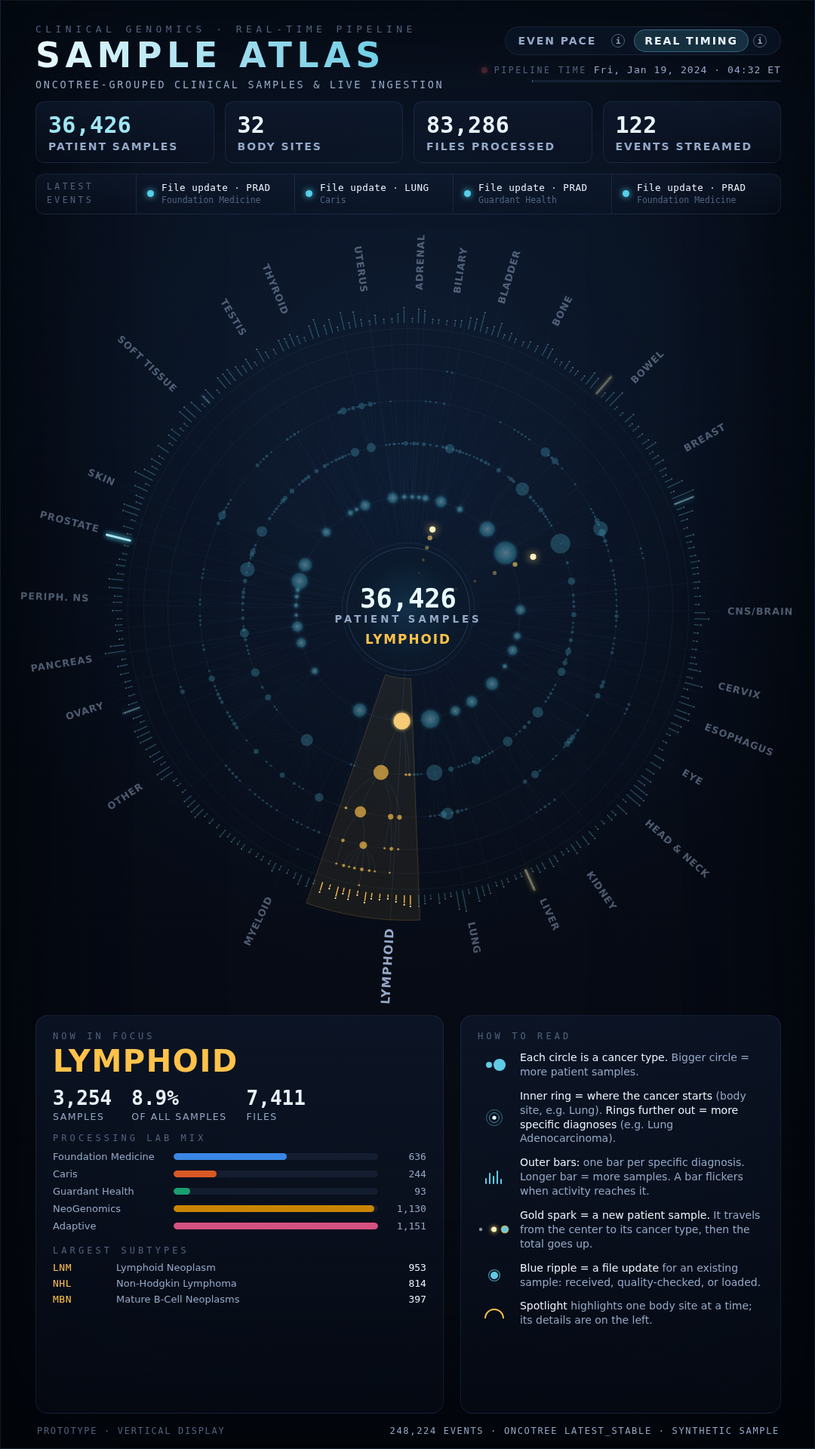
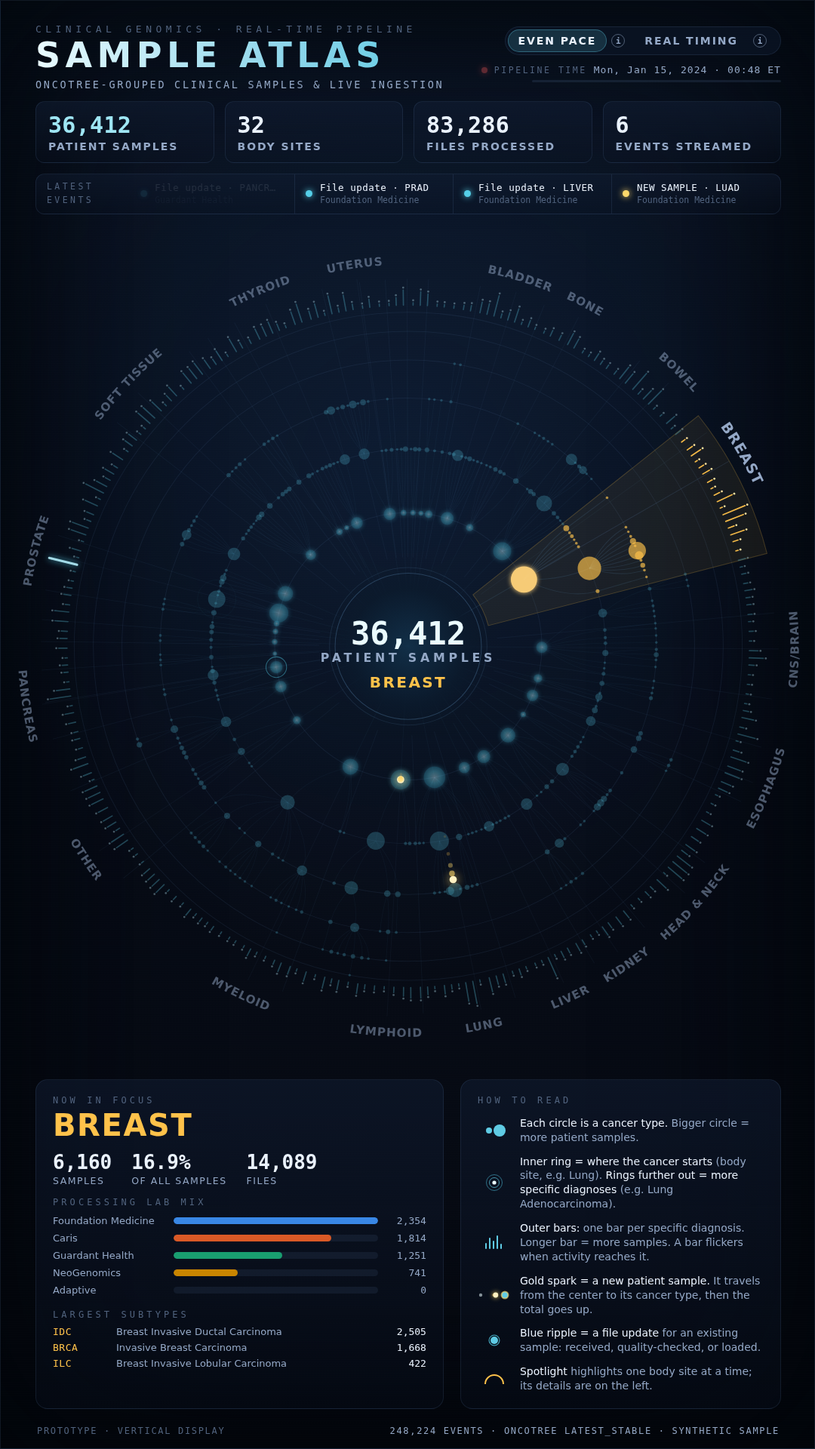
edits

diff --git a/docs/index.html b/docs/index.html
@@ -39,7 +39,7 @@ body{
     linear-gradient(180deg,#0a1322 0%, #070c17 55%, #05080f 100%);
   border:1px solid rgba(120,165,220,.10);
   box-shadow:0 0 120px rgba(0,0,0,.6), inset 0 0 160px rgba(0,0,0,.45);
-  display:grid; grid-template-rows:286px 1054px minmax(0,1fr) 46px; overflow:hidden;
+  display:grid; grid-template-rows:286px minmax(0,1fr) auto 46px; overflow:hidden;
 }
 /* subtle scanline + vignette */
 #stage::after{content:"";position:absolute;inset:0;pointer-events:none;
@@ -71,8 +71,8 @@ header{padding:30px 46px 0;display:flex;flex-direction:column;gap:14px;z-index:3
 .kpi.lead .v{color:#9fe6f4}
 
 /* ── atlas ── */
-#atlas{position:relative;z-index:2}
-#atlas svg{display:block;width:1080px;height:1054px}
+#atlas{position:relative;z-index:2;min-height:0}
+#atlas svg{display:block;width:1080px;height:100%}
 .ringline{fill:none;stroke:var(--ring);stroke-width:1}
 .spoke{stroke:rgba(120,165,220,.06);stroke-width:1}
 .link{fill:none;stroke:var(--edge);stroke-width:1;transition:stroke .6s,opacity .6s,stroke-width .6s}
@@ -86,14 +86,14 @@ header{padding:30px 46px 0;display:flex;flex-direction:column;gap:14px;z-index:3
 .hub-cat{font-family:var(--f-disp);font-weight:700;font-size:19px;letter-spacing:.12em;fill:var(--accent);text-anchor:middle;text-transform:uppercase}
 
 /* ── bottom ── */
-#bottom{display:grid;grid-template-columns:1.12fr .88fr;gap:22px;padding:4px 46px 0;z-index:3;min-height:0}
+#bottom{display:grid;grid-template-columns:1.12fr .88fr;gap:22px;padding:4px 46px 6px;z-index:3;min-height:0}
 #bottom>.card{min-height:0}
 .card{border:1px solid var(--hair-c);border-radius:16px;padding:20px 22px;
   background:linear-gradient(180deg,rgba(16,27,48,.6),rgba(9,16,30,.35));position:relative;overflow:hidden}
 .card h3{margin:0 0 2px;font-family:var(--f-mono);font-size:12px;letter-spacing:.34em;
   color:var(--ink-3);text-transform:uppercase;font-weight:500}
 .spot-name{font-family:var(--f-disp);font-weight:700;font-size:40px;letter-spacing:.04em;
-  color:var(--accent);text-transform:uppercase;line-height:1.02;margin:6px 0 2px;min-height:44px}
+  color:var(--accent);text-transform:uppercase;line-height:1.02;margin:6px 0 2px;min-height:44px;white-space:nowrap;overflow:hidden}
 .spot-stats{display:flex;gap:26px;margin:10px 0 14px}
 .spot-stats .s .v{font-family:var(--f-mono);font-weight:600;font-size:26px;color:var(--ink);font-variant-numeric:tabular-nums}
 .spot-stats .s .l{font-family:var(--f-disp);font-size:12.5px;letter-spacing:.12em;color:var(--ink-2);text-transform:uppercase;margin-top:2px}
@@ -104,12 +104,14 @@ header{padding:30px 46px 0;display:flex;flex-direction:column;gap:14px;z-index:3
 .vbar .fill{height:100%;border-radius:5px;transition:width .6s cubic-bezier(.3,.8,.3,1)}
 .vbar .pc{font-family:var(--f-mono);font-size:13px;color:var(--ink-2);text-align:right;font-variant-numeric:tabular-nums}
 
-.subs{display:flex;flex-direction:column;gap:6px}
+.subs{display:flex;flex-direction:column;gap:6px;min-height:64px}
 .sb{display:grid;grid-template-columns:74px 1fr 60px;gap:10px;align-items:baseline;font-size:13px}
 .sb .c{font-family:var(--f-mono);color:var(--accent);letter-spacing:.04em}
 .sb .n{font-family:var(--f-body);color:var(--ink-2);white-space:nowrap;overflow:hidden;text-overflow:ellipsis}
 .sb .k{font-family:var(--f-mono);color:var(--ink);text-align:right;font-variant-numeric:tabular-nums}
 .legend{display:flex;flex-direction:column;gap:13px}
+.readcard{display:flex;flex-direction:column}
+.readcard .legend{flex:1 1 auto;justify-content:space-between}
 .lg{display:grid;grid-template-columns:44px 1fr;align-items:center;gap:12px}
 .lg .gl{display:flex;align-items:center;justify-content:center}
 .lg .tx{font-family:var(--f-body);font-size:14px;color:var(--ink-2);line-height:1.35}
@@ -214,13 +216,13 @@ footer .r{color:var(--ink-2)}
         <div class="lg"><span class="gl"><svg width="34" height="22" aria-hidden="true"><circle cx="10" cy="11" r="4" fill="#5fcbe4"/><circle cx="24" cy="11" r="8" fill="#5fcbe4"/></svg></span><span class="tx"><b>Each circle is a cancer type.</b> Bigger circle = more patient samples.</span></div>
         <div class="lg"><span class="gl"><svg width="34" height="24" aria-hidden="true"><circle cx="17" cy="12" r="2.6" fill="#eafbff"/><circle cx="17" cy="12" r="6.5" fill="none" stroke="#5fcbe4" stroke-opacity=".7"/><circle cx="17" cy="12" r="10.5" fill="none" stroke="#2f6f85"/></svg></span><span class="tx"><b>Inner ring = where the cancer starts</b> (body site, e.g. Lung). <b>Rings further out = more specific diagnoses</b> (e.g. Lung Adenocarcinoma).</span></div>
         <div class="lg"><span class="gl"><svg width="34" height="22" aria-hidden="true"><g stroke="#5fcbe4" stroke-width="2" stroke-linecap="round"><line x1="6" y1="19" x2="6" y2="13"/><line x1="11" y1="19" x2="11" y2="6"/><line x1="16" y1="19" x2="16" y2="10"/><line x1="21" y1="19" x2="21" y2="3"/><line x1="26" y1="19" x2="26" y2="14"/></g></svg></span><span class="tx"><b>Outer bars:</b> one bar per specific diagnosis. Longer bar = more samples. A bar flickers when activity reaches it.</span></div>
-        <div class="lg"><span class="gl"><svg width="44" height="30" viewBox="0 0 44 30" aria-hidden="true">
+        <div class="lg"><span class="gl"><svg width="44" height="30" viewBox="0 0 44 30" overflow="visible" aria-hidden="true">
           <circle cx="4" cy="15" r="2.2" fill="#eafbff" opacity=".55"/>
-          <circle cx="36" cy="15" r="4.5" fill="#5fcbe4"/>
-          <circle cy="15" r="1.4" fill="#ffc24a" opacity="0"><animate attributeName="cx" values="4;36;36" keyTimes="0;.58;1" dur="2.6s" begin=".18s" repeatCount="indefinite"/><animate attributeName="opacity" values=".2;.2;0;0" keyTimes="0;.56;.6;1" dur="2.6s" begin=".18s" repeatCount="indefinite"/></circle>
-          <circle cy="15" r="2.2" fill="#ffd96b" opacity="0"><animate attributeName="cx" values="4;36;36" keyTimes="0;.58;1" dur="2.6s" begin=".09s" repeatCount="indefinite"/><animate attributeName="opacity" values=".45;.45;0;0" keyTimes="0;.56;.6;1" dur="2.6s" begin=".09s" repeatCount="indefinite"/></circle>
-          <circle cy="15" r="3.4" fill="#fff1c2" style="filter:drop-shadow(0 0 3px #ffd96b)"><animate attributeName="cx" values="4;36;36" keyTimes="0;.58;1" dur="2.6s" repeatCount="indefinite"/><animate attributeName="opacity" values="1;1;0;0" keyTimes="0;.57;.6;1" dur="2.6s" repeatCount="indefinite"/></circle>
-          <circle cx="36" cy="15" r="4.5" fill="none" stroke="#ffd96b" stroke-width="2"><animate attributeName="r" values="4.5;4.5;12;12" keyTimes="0;.58;.92;1" dur="2.6s" repeatCount="indefinite"/><animate attributeName="opacity" values="0;1;0;0" keyTimes="0;.58;.92;1" dur="2.6s" repeatCount="indefinite"/></circle>
+          <circle cx="29" cy="15" r="4.5" fill="#5fcbe4"/>
+          <circle cy="15" r="1.4" fill="#ffc24a" opacity="0"><animate attributeName="cx" values="4;29;29" keyTimes="0;.58;1" dur="2.6s" begin=".18s" repeatCount="indefinite"/><animate attributeName="opacity" values=".2;.2;0;0" keyTimes="0;.56;.6;1" dur="2.6s" begin=".18s" repeatCount="indefinite"/></circle>
+          <circle cy="15" r="2.2" fill="#ffd96b" opacity="0"><animate attributeName="cx" values="4;29;29" keyTimes="0;.58;1" dur="2.6s" begin=".09s" repeatCount="indefinite"/><animate attributeName="opacity" values=".45;.45;0;0" keyTimes="0;.56;.6;1" dur="2.6s" begin=".09s" repeatCount="indefinite"/></circle>
+          <circle cy="15" r="3.4" fill="#fff1c2" style="filter:drop-shadow(0 0 3px #ffd96b)"><animate attributeName="cx" values="4;29;29" keyTimes="0;.58;1" dur="2.6s" repeatCount="indefinite"/><animate attributeName="opacity" values="1;1;0;0" keyTimes="0;.57;.6;1" dur="2.6s" repeatCount="indefinite"/></circle>
+          <circle cx="29" cy="15" r="4.5" fill="none" stroke="#ffd96b" stroke-width="2"><animate attributeName="r" values="4.5;4.5;11.5;11.5" keyTimes="0;.58;.92;1" dur="2.6s" repeatCount="indefinite"/><animate attributeName="opacity" values="0;1;0;0" keyTimes="0;.58;.92;1" dur="2.6s" repeatCount="indefinite"/></circle>
         </svg></span><span class="tx"><b>Gold spark = a new patient sample.</b> It travels from the center to its cancer type, then the total goes up.</span></div>
         <div class="lg"><span class="gl"><svg width="44" height="30" viewBox="0 0 44 30" aria-hidden="true">
           <circle cx="22" cy="15" r="5" fill="#5fcbe4"/>
@@ -259,7 +261,7 @@ const BUNDLE = {"meta":{"totalSamples":36412,"totalEvents":248224,"totalFiles":8
     `${fmt(B.meta.totalEvents)} events · OncoTree latest_stable · synthetic sample`;
 
   // ── build hierarchy + radial layout
-  const W=1080,H=1054,cx=540,cy=520;
+  const W=1080; let H=document.getElementById("atlas").clientHeight||1100;
   const root = d3.hierarchy(B.tree);
   const RING=[0,168,248,312,360,396,420];
   const OUT=420;
@@ -294,7 +296,7 @@ const BUNDLE = {"meta":{"totalSamples":36412,"totalEvents":248224,"totalFiles":8
   glow.append("feGaussianBlur").attr("stdDeviation","3.2").attr("result","b");
   const fm=glow.append("feMerge"); fm.append("feMergeNode").attr("in","b"); fm.append("feMergeNode").attr("in","SourceGraphic");
 
-  const g=svg.append("g").attr("transform",`translate(${cx},${cy}) scale(0.885)`);
+  const g=svg.append("g");
   // concentric rings
   g.append("g").selectAll("circle").data(RING.slice(1)).enter().append("circle")
     .attr("class","ringline").attr("r",d=>d);
@@ -343,25 +345,40 @@ const BUNDLE = {"meta":{"totalSamples":36412,"totalEvents":248224,"totalFiles":8
     .attr("cx",d=>Math.sin(d.ang)*(OUT+12+barLen(d.data.n_direct||1))).attr("cy",d=>-Math.cos(d.ang)*(OUT+12+barLen(d.data.n_direct||1)))
     .attr("r",1.3).attr("fill","#bfeefb").attr("opacity",.45);
 
-  // category labels around perimeter
-  const SHORT={"Peripheral Nervous System":"Periph. NS","Bladder/Urinary Tract":"Bladder",
+  // category labels: curved along the outer edge (top half reads clockwise, bottom half flipped upright)
+  const SHORT={"Peripheral Nervous System":"Periph. Nerve","Bladder/Urinary Tract":"Bladder",
     "Ovary/Fallopian Tube":"Ovary","Esophagus/Stomach":"Esophagus","Ampulla of Vater":"Ampulla","Biliary Tract":"Biliary","Head and Neck":"Head & Neck","Adrenal Gland":"Adrenal"};
-  const shown=new Set(); const byBig=root.children.slice().sort((a,b)=>b.data.n_subtree-a.data.n_subtree);
   const angDist=(a,b)=>{const d=Math.abs(a-b)%(2*Math.PI);return Math.min(d,2*Math.PI-d)};
-  byBig.forEach(c=>{ if([...shown].every(o=>angDist(o.ang,c.ang)>=0.118)) shown.add(c); });
-  const labelG=g.append("g");
+  const LR=480, labelG=g.append("g"), lblInfo=[];
   root.children.forEach(c=>{
-    const lr=478, lx=Math.sin(c.ang)*lr, ly=-Math.cos(c.ang)*lr;
-    let deg=Math.atan2(ly,lx)*180/Math.PI, flip=(deg>90||deg<-90), rot=flip?deg+180:deg;
-    // leader
-    labelG.append("line").attr("class","leader").attr("data-root",c.data.code).attr("data-shown",shown.has(c)?1:0).attr("opacity",shown.has(c)?1:0)
-      .attr("x1",Math.sin(c.ang)*(c.rr+nodeR(c)+3)).attr("y1",-Math.cos(c.ang)*(c.rr+nodeR(c)+3))
-      .attr("x2",Math.sin(c.ang)*(lr-10)).attr("y2",-Math.cos(c.ang)*(lr-10));
-    labelG.append("text").attr("class","catlabel").attr("data-root",c.data.code)
-      .attr("transform",`translate(${lx},${ly}) rotate(${rot})`)
-      .attr("text-anchor",flip?"end":"start").attr("dy","0.32em").attr("data-shown",shown.has(c)?1:0).attr("opacity",shown.has(c)?.75:0)
+    const a=c.ang, top=Math.cos(a)>=0, r=top?LR:LR+11, d=0.62;
+    const P=x=>[Math.sin(x)*r,-Math.cos(x)*r];
+    const [x0,y0]=P(top?a-d:a+d), [x1,y1]=P(top?a+d:a-d);
+    defs.append("path").attr("id","lp-"+c.data.code).attr("d",`M${x0},${y0} A${r},${r} 0 0 ${top?1:0} ${x1},${y1}`);
+    const ld=labelG.append("line").attr("class","leader").attr("data-root",c.data.code).attr("opacity",0)
+      .attr("x1",Math.sin(a)*(c.rr+nodeR(c)+3)).attr("y1",-Math.cos(a)*(c.rr+nodeR(c)+3))
+      .attr("x2",Math.sin(a)*(LR-14)).attr("y2",-Math.cos(a)*(LR-14));
+    const tx=labelG.append("text").attr("class","catlabel").attr("data-root",c.data.code).attr("opacity",0);
+    tx.append("textPath").attr("href","#lp-"+c.data.code).attr("startOffset","50%").attr("text-anchor","middle")
       .text(SHORT[c.data.name]||c.data.name);
+    lblInfo.push({c,el:tx.node(),ld:ld.node()});
   });
+  // keep a label only if its arc doesn't collide with a bigger site's label; the spotlit site always wins
+  function cullLabels(spot){
+    const prev=lblInfo.map(o=>o.el.style.fontSize);
+    lblInfo.forEach(o=>o.el.style.fontSize="14.5px");
+    const items=lblInfo.map(o=>{let len=80;try{len=o.el.getComputedTextLength()||80}catch(e){}
+      const isSpot=o.c.data.code===spot; return {o,isSpot,L:isSpot?len*18/14.5:len};});
+    lblInfo.forEach((o,i)=>o.el.style.fontSize=prev[i]);
+    items.sort((a,b)=>(b.isSpot-a.isSpot)||(b.o.c.data.n_subtree-a.o.c.data.n_subtree));
+    const kept=[];
+    items.forEach(it=>{ if(kept.every(k=>angDist(k.o.c.ang,it.o.c.ang)*LR>=(k.L+it.L)/2+14)) kept.push(it); });
+    const ks=new Set(kept.map(k=>k.o.c.data.code));
+    lblInfo.forEach(o=>{const v=ks.has(o.c.data.code)?1:0; o.el.setAttribute("data-shown",v); o.ld.setAttribute("data-shown",v);});
+  }
+  cullLabels(null);
+  labelG.selectAll(".catlabel").attr("opacity",function(){return this.getAttribute("data-shown")==="1"?.75:0});
+  labelG.selectAll(".leader").attr("opacity",function(){return this.getAttribute("data-shown")==="1"?.6:0});
 
   // hub
   g.append("circle").attr("r",104).attr("fill","url(#hub)");
@@ -372,6 +389,23 @@ const BUNDLE = {"meta":{"totalSamples":36412,"totalEvents":248224,"totalFiles":8
   const hubCat=g.append("text").attr("class","hub-cat").attr("dy","52").text("");
 
   const pulseL=g.append("g"); // pulses on top
+
+  // fit the whole atlas (labels at their largest spotlight size) into the space left by the panels
+  function fitAtlas(){
+    H=document.getElementById("atlas").clientHeight||H;
+    svg.attr("viewBox",`0 0 ${W} ${H}`);
+    const lbls=labelG.selectAll(".catlabel").nodes(), prev=lbls.map(n=>n.style.fontSize);
+    lbls.forEach(n=>n.style.fontSize="18px");
+    const bb=g.node().getBBox();
+    lbls.forEach((n,i)=>n.style.fontSize=prev[i]);
+    const halfW=Math.max(-bb.x,bb.x+bb.width), halfH=Math.max(-bb.y,bb.y+bb.height), m=16;
+    const s=Math.min((W/2-m)/halfW,(H/2-m)/halfH);
+    g.attr("transform",`translate(${W/2},${H/2}) scale(${s.toFixed(4)})`);
+  }
+  fitAtlas();
+  if(document.fonts&&document.fonts.ready) document.fonts.ready.then(()=>{ cullLabels(curSpot); fitAtlas();
+    labelG.selectAll(".catlabel").attr("opacity",function(){return this.getAttribute("data-root")===curSpot?1:(this.getAttribute("data-shown")==="1"?.5:0)});
+    labelG.selectAll(".leader").attr("opacity",function(){return this.getAttribute("data-root")===curSpot?1:(this.getAttribute("data-shown")==="1"?.35:0)}); });
 
   // ── live counters
   let total=B.meta.totalSamples, evStreamed=0;
@@ -485,10 +519,11 @@ const BUNDLE = {"meta":{"totalSamples":36412,"totalEvents":248224,"totalFiles":8
   // ── spotlight
   const catByName=new Map(B.categories.map(c=>[c.root,c]));
   const level1=root.children.slice().sort((a,b)=>b.data.n_subtree-a.data.n_subtree);
-  let si=0;
+  let si=0, curSpot=null;
   const vbars=document.getElementById("vbars");
   function spotlight(){
     const c=level1[si++ % level1.length], code=c.data.code, set=subtreeCodes.get(code);
+    curSpot=code; cullLabels(code);
     // dim/highlight
     nodeSel.attr("opacity",d=>set.has(d.ancestors().find(a=>a.depth===1).data.code)?1:.42);
     const isOn=function(){return this.getAttribute("data-root")===code};
@@ -509,7 +544,8 @@ const BUNDLE = {"meta":{"totalSamples":36412,"totalEvents":248224,"totalFiles":8
     hubCat.text(c.data.name).attr("opacity",0).transition().duration(400).attr("opacity",1);
     // panel
     const cd=catByName.get(c.data.name);
-    document.getElementById("spot-name").textContent=c.data.name;
+    const sn=document.getElementById("spot-name"); sn.textContent=c.data.name; let fs=40; sn.style.fontSize=fs+"px";
+    while(sn.scrollWidth>sn.clientWidth && fs>24){ fs-=2; sn.style.fontSize=fs+"px"; }
     document.getElementById("spot-samples").textContent=fmt(cd.n_samples);
     document.getElementById("spot-share").textContent=(100*cd.n_samples/B.meta.totalSamples).toFixed(1)+"%";
     document.getElementById("spot-files").textContent=fmt(cd.n_files);

diff --git a/docs/src/index_template.html b/docs/src/index_template.html
@@ -39,7 +39,7 @@ body{
     linear-gradient(180deg,#0a1322 0%, #070c17 55%, #05080f 100%);
   border:1px solid rgba(120,165,220,.10);
   box-shadow:0 0 120px rgba(0,0,0,.6), inset 0 0 160px rgba(0,0,0,.45);
-  display:grid; grid-template-rows:286px 1054px minmax(0,1fr) 46px; overflow:hidden;
+  display:grid; grid-template-rows:286px minmax(0,1fr) auto 46px; overflow:hidden;
 }
 /* subtle scanline + vignette */
 #stage::after{content:"";position:absolute;inset:0;pointer-events:none;
@@ -71,8 +71,8 @@ header{padding:30px 46px 0;display:flex;flex-direction:column;gap:14px;z-index:3
 .kpi.lead .v{color:#9fe6f4}
 
 /* ── atlas ── */
-#atlas{position:relative;z-index:2}
-#atlas svg{display:block;width:1080px;height:1054px}
+#atlas{position:relative;z-index:2;min-height:0}
+#atlas svg{display:block;width:1080px;height:100%}
 .ringline{fill:none;stroke:var(--ring);stroke-width:1}
 .spoke{stroke:rgba(120,165,220,.06);stroke-width:1}
 .link{fill:none;stroke:var(--edge);stroke-width:1;transition:stroke .6s,opacity .6s,stroke-width .6s}
@@ -86,14 +86,14 @@ header{padding:30px 46px 0;display:flex;flex-direction:column;gap:14px;z-index:3
 .hub-cat{font-family:var(--f-disp);font-weight:700;font-size:19px;letter-spacing:.12em;fill:var(--accent);text-anchor:middle;text-transform:uppercase}
 
 /* ── bottom ── */
-#bottom{display:grid;grid-template-columns:1.12fr .88fr;gap:22px;padding:4px 46px 0;z-index:3;min-height:0}
+#bottom{display:grid;grid-template-columns:1.12fr .88fr;gap:22px;padding:4px 46px 6px;z-index:3;min-height:0}
 #bottom>.card{min-height:0}
 .card{border:1px solid var(--hair-c);border-radius:16px;padding:20px 22px;
   background:linear-gradient(180deg,rgba(16,27,48,.6),rgba(9,16,30,.35));position:relative;overflow:hidden}
 .card h3{margin:0 0 2px;font-family:var(--f-mono);font-size:12px;letter-spacing:.34em;
   color:var(--ink-3);text-transform:uppercase;font-weight:500}
 .spot-name{font-family:var(--f-disp);font-weight:700;font-size:40px;letter-spacing:.04em;
-  color:var(--accent);text-transform:uppercase;line-height:1.02;margin:6px 0 2px;min-height:44px}
+  color:var(--accent);text-transform:uppercase;line-height:1.02;margin:6px 0 2px;min-height:44px;white-space:nowrap;overflow:hidden}
 .spot-stats{display:flex;gap:26px;margin:10px 0 14px}
 .spot-stats .s .v{font-family:var(--f-mono);font-weight:600;font-size:26px;color:var(--ink);font-variant-numeric:tabular-nums}
 .spot-stats .s .l{font-family:var(--f-disp);font-size:12.5px;letter-spacing:.12em;color:var(--ink-2);text-transform:uppercase;margin-top:2px}
@@ -104,12 +104,14 @@ header{padding:30px 46px 0;display:flex;flex-direction:column;gap:14px;z-index:3
 .vbar .fill{height:100%;border-radius:5px;transition:width .6s cubic-bezier(.3,.8,.3,1)}
 .vbar .pc{font-family:var(--f-mono);font-size:13px;color:var(--ink-2);text-align:right;font-variant-numeric:tabular-nums}
 
-.subs{display:flex;flex-direction:column;gap:6px}
+.subs{display:flex;flex-direction:column;gap:6px;min-height:64px}
 .sb{display:grid;grid-template-columns:74px 1fr 60px;gap:10px;align-items:baseline;font-size:13px}
 .sb .c{font-family:var(--f-mono);color:var(--accent);letter-spacing:.04em}
 .sb .n{font-family:var(--f-body);color:var(--ink-2);white-space:nowrap;overflow:hidden;text-overflow:ellipsis}
 .sb .k{font-family:var(--f-mono);color:var(--ink);text-align:right;font-variant-numeric:tabular-nums}
 .legend{display:flex;flex-direction:column;gap:13px}
+.readcard{display:flex;flex-direction:column}
+.readcard .legend{flex:1 1 auto;justify-content:space-between}
 .lg{display:grid;grid-template-columns:44px 1fr;align-items:center;gap:12px}
 .lg .gl{display:flex;align-items:center;justify-content:center}
 .lg .tx{font-family:var(--f-body);font-size:14px;color:var(--ink-2);line-height:1.35}
@@ -214,13 +216,13 @@ footer .r{color:var(--ink-2)}
         <div class="lg"><span class="gl"><svg width="34" height="22" aria-hidden="true"><circle cx="10" cy="11" r="4" fill="#5fcbe4"/><circle cx="24" cy="11" r="8" fill="#5fcbe4"/></svg></span><span class="tx"><b>Each circle is a cancer type.</b> Bigger circle = more patient samples.</span></div>
         <div class="lg"><span class="gl"><svg width="34" height="24" aria-hidden="true"><circle cx="17" cy="12" r="2.6" fill="#eafbff"/><circle cx="17" cy="12" r="6.5" fill="none" stroke="#5fcbe4" stroke-opacity=".7"/><circle cx="17" cy="12" r="10.5" fill="none" stroke="#2f6f85"/></svg></span><span class="tx"><b>Inner ring = where the cancer starts</b> (body site, e.g. Lung). <b>Rings further out = more specific diagnoses</b> (e.g. Lung Adenocarcinoma).</span></div>
         <div class="lg"><span class="gl"><svg width="34" height="22" aria-hidden="true"><g stroke="#5fcbe4" stroke-width="2" stroke-linecap="round"><line x1="6" y1="19" x2="6" y2="13"/><line x1="11" y1="19" x2="11" y2="6"/><line x1="16" y1="19" x2="16" y2="10"/><line x1="21" y1="19" x2="21" y2="3"/><line x1="26" y1="19" x2="26" y2="14"/></g></svg></span><span class="tx"><b>Outer bars:</b> one bar per specific diagnosis. Longer bar = more samples. A bar flickers when activity reaches it.</span></div>
-        <div class="lg"><span class="gl"><svg width="44" height="30" viewBox="0 0 44 30" aria-hidden="true">
+        <div class="lg"><span class="gl"><svg width="44" height="30" viewBox="0 0 44 30" overflow="visible" aria-hidden="true">
           <circle cx="4" cy="15" r="2.2" fill="#eafbff" opacity=".55"/>
-          <circle cx="36" cy="15" r="4.5" fill="#5fcbe4"/>
-          <circle cy="15" r="1.4" fill="#ffc24a" opacity="0"><animate attributeName="cx" values="4;36;36" keyTimes="0;.58;1" dur="2.6s" begin=".18s" repeatCount="indefinite"/><animate attributeName="opacity" values=".2;.2;0;0" keyTimes="0;.56;.6;1" dur="2.6s" begin=".18s" repeatCount="indefinite"/></circle>
-          <circle cy="15" r="2.2" fill="#ffd96b" opacity="0"><animate attributeName="cx" values="4;36;36" keyTimes="0;.58;1" dur="2.6s" begin=".09s" repeatCount="indefinite"/><animate attributeName="opacity" values=".45;.45;0;0" keyTimes="0;.56;.6;1" dur="2.6s" begin=".09s" repeatCount="indefinite"/></circle>
-          <circle cy="15" r="3.4" fill="#fff1c2" style="filter:drop-shadow(0 0 3px #ffd96b)"><animate attributeName="cx" values="4;36;36" keyTimes="0;.58;1" dur="2.6s" repeatCount="indefinite"/><animate attributeName="opacity" values="1;1;0;0" keyTimes="0;.57;.6;1" dur="2.6s" repeatCount="indefinite"/></circle>
-          <circle cx="36" cy="15" r="4.5" fill="none" stroke="#ffd96b" stroke-width="2"><animate attributeName="r" values="4.5;4.5;12;12" keyTimes="0;.58;.92;1" dur="2.6s" repeatCount="indefinite"/><animate attributeName="opacity" values="0;1;0;0" keyTimes="0;.58;.92;1" dur="2.6s" repeatCount="indefinite"/></circle>
+          <circle cx="29" cy="15" r="4.5" fill="#5fcbe4"/>
+          <circle cy="15" r="1.4" fill="#ffc24a" opacity="0"><animate attributeName="cx" values="4;29;29" keyTimes="0;.58;1" dur="2.6s" begin=".18s" repeatCount="indefinite"/><animate attributeName="opacity" values=".2;.2;0;0" keyTimes="0;.56;.6;1" dur="2.6s" begin=".18s" repeatCount="indefinite"/></circle>
+          <circle cy="15" r="2.2" fill="#ffd96b" opacity="0"><animate attributeName="cx" values="4;29;29" keyTimes="0;.58;1" dur="2.6s" begin=".09s" repeatCount="indefinite"/><animate attributeName="opacity" values=".45;.45;0;0" keyTimes="0;.56;.6;1" dur="2.6s" begin=".09s" repeatCount="indefinite"/></circle>
+          <circle cy="15" r="3.4" fill="#fff1c2" style="filter:drop-shadow(0 0 3px #ffd96b)"><animate attributeName="cx" values="4;29;29" keyTimes="0;.58;1" dur="2.6s" repeatCount="indefinite"/><animate attributeName="opacity" values="1;1;0;0" keyTimes="0;.57;.6;1" dur="2.6s" repeatCount="indefinite"/></circle>
+          <circle cx="29" cy="15" r="4.5" fill="none" stroke="#ffd96b" stroke-width="2"><animate attributeName="r" values="4.5;4.5;11.5;11.5" keyTimes="0;.58;.92;1" dur="2.6s" repeatCount="indefinite"/><animate attributeName="opacity" values="0;1;0;0" keyTimes="0;.58;.92;1" dur="2.6s" repeatCount="indefinite"/></circle>
         </svg></span><span class="tx"><b>Gold spark = a new patient sample.</b> It travels from the center to its cancer type, then the total goes up.</span></div>
         <div class="lg"><span class="gl"><svg width="44" height="30" viewBox="0 0 44 30" aria-hidden="true">
           <circle cx="22" cy="15" r="5" fill="#5fcbe4"/>
@@ -259,7 +261,7 @@ const BUNDLE = /*__BUNDLE__*/;
     `${fmt(B.meta.totalEvents)} events · OncoTree latest_stable · synthetic sample`;
 
   // ── build hierarchy + radial layout
-  const W=1080,H=1054,cx=540,cy=520;
+  const W=1080; let H=document.getElementById("atlas").clientHeight||1100;
   const root = d3.hierarchy(B.tree);
   const RING=[0,168,248,312,360,396,420];
   const OUT=420;
@@ -294,7 +296,7 @@ const BUNDLE = /*__BUNDLE__*/;
   glow.append("feGaussianBlur").attr("stdDeviation","3.2").attr("result","b");
   const fm=glow.append("feMerge"); fm.append("feMergeNode").attr("in","b"); fm.append("feMergeNode").attr("in","SourceGraphic");
 
-  const g=svg.append("g").attr("transform",`translate(${cx},${cy}) scale(0.885)`);
+  const g=svg.append("g");
   // concentric rings
   g.append("g").selectAll("circle").data(RING.slice(1)).enter().append("circle")
     .attr("class","ringline").attr("r",d=>d);
@@ -343,25 +345,40 @@ const BUNDLE = /*__BUNDLE__*/;
     .attr("cx",d=>Math.sin(d.ang)*(OUT+12+barLen(d.data.n_direct||1))).attr("cy",d=>-Math.cos(d.ang)*(OUT+12+barLen(d.data.n_direct||1)))
     .attr("r",1.3).attr("fill","#bfeefb").attr("opacity",.45);
 
-  // category labels around perimeter
-  const SHORT={"Peripheral Nervous System":"Periph. NS","Bladder/Urinary Tract":"Bladder",
+  // category labels: curved along the outer edge (top half reads clockwise, bottom half flipped upright)
+  const SHORT={"Peripheral Nervous System":"Periph. Nerve","Bladder/Urinary Tract":"Bladder",
     "Ovary/Fallopian Tube":"Ovary","Esophagus/Stomach":"Esophagus","Ampulla of Vater":"Ampulla","Biliary Tract":"Biliary","Head and Neck":"Head & Neck","Adrenal Gland":"Adrenal"};
-  const shown=new Set(); const byBig=root.children.slice().sort((a,b)=>b.data.n_subtree-a.data.n_subtree);
   const angDist=(a,b)=>{const d=Math.abs(a-b)%(2*Math.PI);return Math.min(d,2*Math.PI-d)};
-  byBig.forEach(c=>{ if([...shown].every(o=>angDist(o.ang,c.ang)>=0.118)) shown.add(c); });
-  const labelG=g.append("g");
+  const LR=480, labelG=g.append("g"), lblInfo=[];
   root.children.forEach(c=>{
-    const lr=478, lx=Math.sin(c.ang)*lr, ly=-Math.cos(c.ang)*lr;
-    let deg=Math.atan2(ly,lx)*180/Math.PI, flip=(deg>90||deg<-90), rot=flip?deg+180:deg;
-    // leader
-    labelG.append("line").attr("class","leader").attr("data-root",c.data.code).attr("data-shown",shown.has(c)?1:0).attr("opacity",shown.has(c)?1:0)
-      .attr("x1",Math.sin(c.ang)*(c.rr+nodeR(c)+3)).attr("y1",-Math.cos(c.ang)*(c.rr+nodeR(c)+3))
-      .attr("x2",Math.sin(c.ang)*(lr-10)).attr("y2",-Math.cos(c.ang)*(lr-10));
-    labelG.append("text").attr("class","catlabel").attr("data-root",c.data.code)
-      .attr("transform",`translate(${lx},${ly}) rotate(${rot})`)
-      .attr("text-anchor",flip?"end":"start").attr("dy","0.32em").attr("data-shown",shown.has(c)?1:0).attr("opacity",shown.has(c)?.75:0)
+    const a=c.ang, top=Math.cos(a)>=0, r=top?LR:LR+11, d=0.62;
+    const P=x=>[Math.sin(x)*r,-Math.cos(x)*r];
+    const [x0,y0]=P(top?a-d:a+d), [x1,y1]=P(top?a+d:a-d);
+    defs.append("path").attr("id","lp-"+c.data.code).attr("d",`M${x0},${y0} A${r},${r} 0 0 ${top?1:0} ${x1},${y1}`);
+    const ld=labelG.append("line").attr("class","leader").attr("data-root",c.data.code).attr("opacity",0)
+      .attr("x1",Math.sin(a)*(c.rr+nodeR(c)+3)).attr("y1",-Math.cos(a)*(c.rr+nodeR(c)+3))
+      .attr("x2",Math.sin(a)*(LR-14)).attr("y2",-Math.cos(a)*(LR-14));
+    const tx=labelG.append("text").attr("class","catlabel").attr("data-root",c.data.code).attr("opacity",0);
+    tx.append("textPath").attr("href","#lp-"+c.data.code).attr("startOffset","50%").attr("text-anchor","middle")
       .text(SHORT[c.data.name]||c.data.name);
+    lblInfo.push({c,el:tx.node(),ld:ld.node()});
   });
+  // keep a label only if its arc doesn't collide with a bigger site's label; the spotlit site always wins
+  function cullLabels(spot){
+    const prev=lblInfo.map(o=>o.el.style.fontSize);
+    lblInfo.forEach(o=>o.el.style.fontSize="14.5px");
+    const items=lblInfo.map(o=>{let len=80;try{len=o.el.getComputedTextLength()||80}catch(e){}
+      const isSpot=o.c.data.code===spot; return {o,isSpot,L:isSpot?len*18/14.5:len};});
+    lblInfo.forEach((o,i)=>o.el.style.fontSize=prev[i]);
+    items.sort((a,b)=>(b.isSpot-a.isSpot)||(b.o.c.data.n_subtree-a.o.c.data.n_subtree));
+    const kept=[];
+    items.forEach(it=>{ if(kept.every(k=>angDist(k.o.c.ang,it.o.c.ang)*LR>=(k.L+it.L)/2+14)) kept.push(it); });
+    const ks=new Set(kept.map(k=>k.o.c.data.code));
+    lblInfo.forEach(o=>{const v=ks.has(o.c.data.code)?1:0; o.el.setAttribute("data-shown",v); o.ld.setAttribute("data-shown",v);});
+  }
+  cullLabels(null);
+  labelG.selectAll(".catlabel").attr("opacity",function(){return this.getAttribute("data-shown")==="1"?.75:0});
+  labelG.selectAll(".leader").attr("opacity",function(){return this.getAttribute("data-shown")==="1"?.6:0});
 
   // hub
   g.append("circle").attr("r",104).attr("fill","url(#hub)");
@@ -372,6 +389,23 @@ const BUNDLE = /*__BUNDLE__*/;
   const hubCat=g.append("text").attr("class","hub-cat").attr("dy","52").text("");
 
   const pulseL=g.append("g"); // pulses on top
+
+  // fit the whole atlas (labels at their largest spotlight size) into the space left by the panels
+  function fitAtlas(){
+    H=document.getElementById("atlas").clientHeight||H;
+    svg.attr("viewBox",`0 0 ${W} ${H}`);
+    const lbls=labelG.selectAll(".catlabel").nodes(), prev=lbls.map(n=>n.style.fontSize);
+    lbls.forEach(n=>n.style.fontSize="18px");
+    const bb=g.node().getBBox();
+    lbls.forEach((n,i)=>n.style.fontSize=prev[i]);
+    const halfW=Math.max(-bb.x,bb.x+bb.width), halfH=Math.max(-bb.y,bb.y+bb.height), m=16;
+    const s=Math.min((W/2-m)/halfW,(H/2-m)/halfH);
+    g.attr("transform",`translate(${W/2},${H/2}) scale(${s.toFixed(4)})`);
+  }
+  fitAtlas();
+  if(document.fonts&&document.fonts.ready) document.fonts.ready.then(()=>{ cullLabels(curSpot); fitAtlas();
+    labelG.selectAll(".catlabel").attr("opacity",function(){return this.getAttribute("data-root")===curSpot?1:(this.getAttribute("data-shown")==="1"?.5:0)});
+    labelG.selectAll(".leader").attr("opacity",function(){return this.getAttribute("data-root")===curSpot?1:(this.getAttribute("data-shown")==="1"?.35:0)}); });
 
   // ── live counters
   let total=B.meta.totalSamples, evStreamed=0;
@@ -485,10 +519,11 @@ const BUNDLE = /*__BUNDLE__*/;
   // ── spotlight
   const catByName=new Map(B.categories.map(c=>[c.root,c]));
   const level1=root.children.slice().sort((a,b)=>b.data.n_subtree-a.data.n_subtree);
-  let si=0;
+  let si=0, curSpot=null;
   const vbars=document.getElementById("vbars");
   function spotlight(){
     const c=level1[si++ % level1.length], code=c.data.code, set=subtreeCodes.get(code);
+    curSpot=code; cullLabels(code);
     // dim/highlight
     nodeSel.attr("opacity",d=>set.has(d.ancestors().find(a=>a.depth===1).data.code)?1:.42);
     const isOn=function(){return this.getAttribute("data-root")===code};
@@ -509,7 +544,8 @@ const BUNDLE = /*__BUNDLE__*/;
     hubCat.text(c.data.name).attr("opacity",0).transition().duration(400).attr("opacity",1);
     // panel
     const cd=catByName.get(c.data.name);
-    document.getElementById("spot-name").textContent=c.data.name;
+    const sn=document.getElementById("spot-name"); sn.textContent=c.data.name; let fs=40; sn.style.fontSize=fs+"px";
+    while(sn.scrollWidth>sn.clientWidth && fs>24){ fs-=2; sn.style.fontSize=fs+"px"; }
     document.getElementById("spot-samples").textContent=fmt(cd.n_samples);
     document.getElementById("spot-share").textContent=(100*cd.n_samples/B.meta.totalSamples).toFixed(1)+"%";
     document.getElementById("spot-files").textContent=fmt(cd.n_files);
